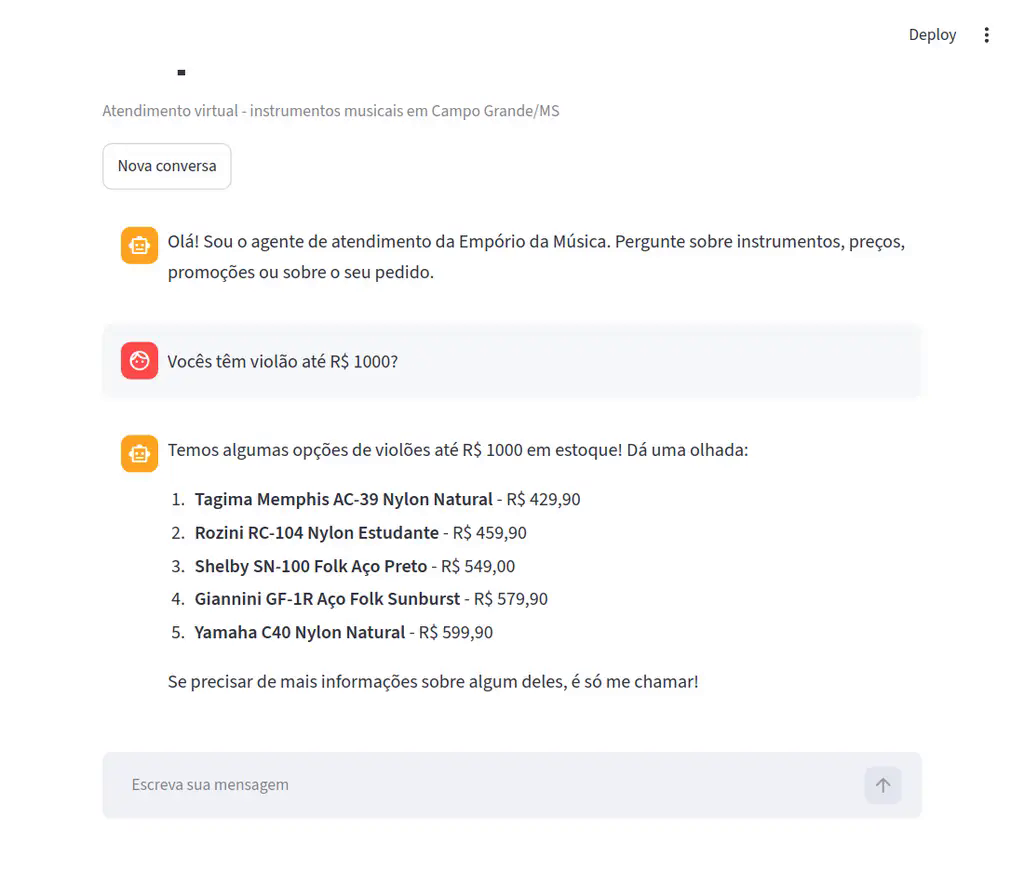
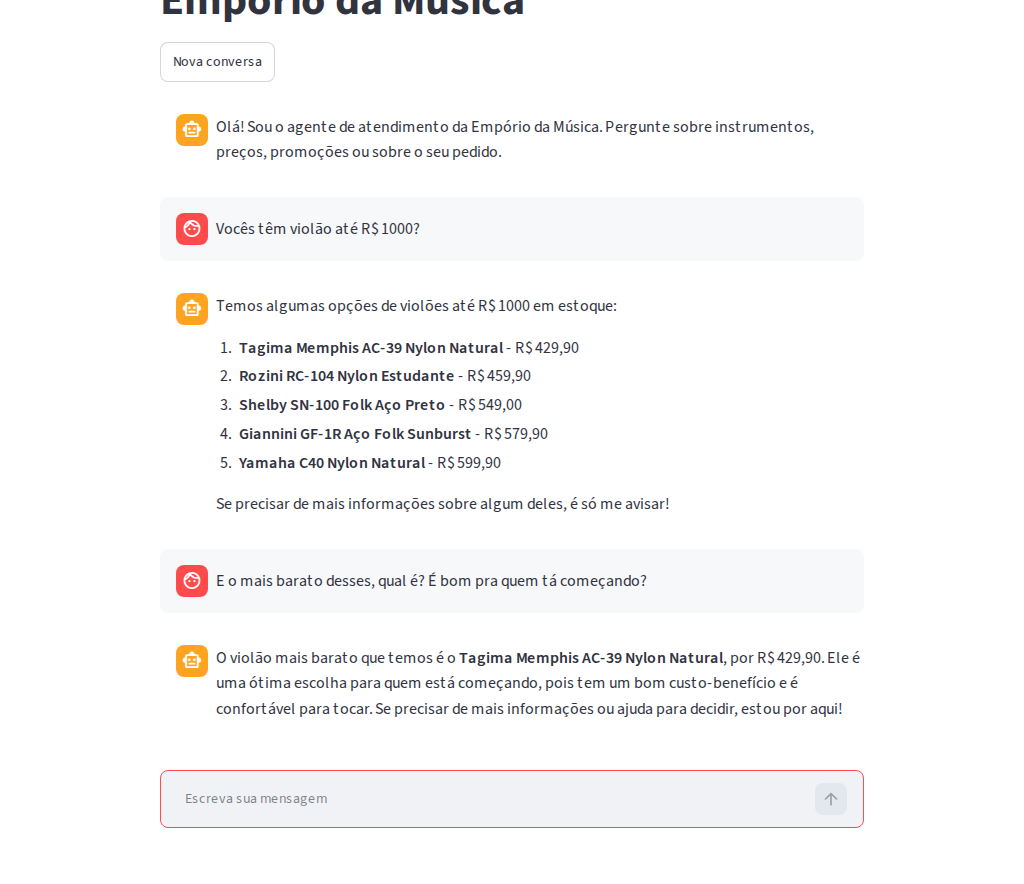
docs: adicionar tabela de Decisões Técnicas e atualizar screenshot

diff --git a/README.md b/README.md
@@ -81,43 +81,21 @@ The case specifies four agent capabilities; each maps directly to a concrete imp
 
 Example conversations covering all five paths live in [`conversations/`](conversations/).
 
-## Architecture and decisions
+## Decisões Técnicas
 
-The case asks for a messaging agent that *knows when to consult data and when
-to consult policies*. The agent has exactly two tools, one per retrieval mode,
-and both are deterministic - no embeddings, no cosine similarity, no top-k
-guesswork:
+As escolhas arquiteturais do projeto seguem o racional abaixo:
 
-- `search_store` - keyword retrieval over the CSV-derived SQLite (FTS5 plus
-  typed price/stock filters). It auto-detects what is being searched:
-  product or category, phone, e-mail, order number, tracking code or
-  customer name.
-- `load_context` - context loading, Anthropic style: the policy manual whole
-  or by full section, the full product index (every name, category and
-  effective price, so the model searches with the right key), or the active
-  promotions. Content lands verbatim in the context window instead of being
-  ranked.
-
-### Agent approach - native function calling over a tool layer (hybrid)
-
-Chosen over the alternatives the case lists:
-
-| Option | Why not (alone) |
+| Decisão | Justificativa |
 |---|---|
-| **Text-to-SQL agent** (free SQL generation) | The catalog questions are enumerable (search, price, order status). Parameterized tools give deterministic, testable queries; free-form SQL adds injection/format risk for zero user-visible gain at this catalog size. |
-| **ReAct via prompt** (model writes "Action: ...") | OpenAI-style native tool calling does the same planning loop with schema validation and structured dispatch - more reliable, less prompt scaffolding. |
-| **Pure RAG** (dump everything in context) | Prices/stock must be *exact and current*; prose retrieval can't guarantee that, and the manual itself forbids quoting prices without checking the system (§7.1). Context loading is still the right call for the 8-page manual - that's exactly what `load_context` does. |
+| **Framework(s) / abordagem do agente** | Native function calling (híbrido) com duas ferramentas determinísticas (`search_store` e `load_context`). Escolhido sobre ReAct puro (function calling nativo da OpenAI é mais confiável e valida schemas) e sobre geração de SQL (evita risco de injeção e alucinação de formato para um catálogo fixo). Sem RAG/embeddings: busca por FTS5 (palavra-chave) e context loading inteiro se provaram mais precisos. |
+| **Modelo e Provedor** | OpenAI `gpt-4o-mini` via API. Excelente custo-benefício, rápido e extremamente confiável para chamadas de ferramentas estruturadas e respostas curtas em PT-BR. Configurado via variável de ambiente, permitindo troca fácil. |
+| **Interface de interação** | UI simples via **Streamlit** (chat web) e uma CLI secundária. A arquitetura é totalmente **desacoplada**: a lógica do agente roda em um servidor FastAPI e o Streamlit apenas consome endpoints HTTP JSON, simulando o contrato real de um backend que atenderia WhatsApp ou app mobile. |
+| **Persistência do histórico de conversa** | Implementado via **SQLite** (`session.py`). Mantém o histórico das últimas interações na sessão, salvando apenas a transcrição limpa (ocultando os tool calls internos) para que o contexto enviado ao LLM permaneça leve, rápido e coerente ao longo da conversa. |
+| **Tratamento dos dados** | Script ETL Python converte os 6 CSVs em um banco tipado com **FTS5** (busca full-text). Uma decisão crítica de tratamento: **cálculos de prazo e expiração de políticas são feitos em Python**, nunca pelo modelo (LLMs erram aritmética de datas). Resultados de pedidos já embutem se estão dentro do prazo. Preços são servidos já cruzando descontos ativos. |
 
-The loop (`emporio/agent.py`) is deliberately small: replay persisted history →
-call the model with tool schemas → execute tool calls → feed results back →
-repeat up to a bound → persist the final reply.
+### Detalhes complementares
 
-### Model and provider - OpenAI `gpt-4o-mini`
-
-Cheap, fast, and reliable at Portuguese + tool calling - the workload here is
-short turns with structured tool output, not deep reasoning. The model is a
-config value (`OPENAI_MODEL`), so swapping providers is a one-line change; the
-tests run against a scripted client, so they don't depend on any provider.
+Abaixo estão os detalhes aprofundados sobre a implementação das ferramentas e testes.
 
 ### Manual: context loading, not ranking
 
